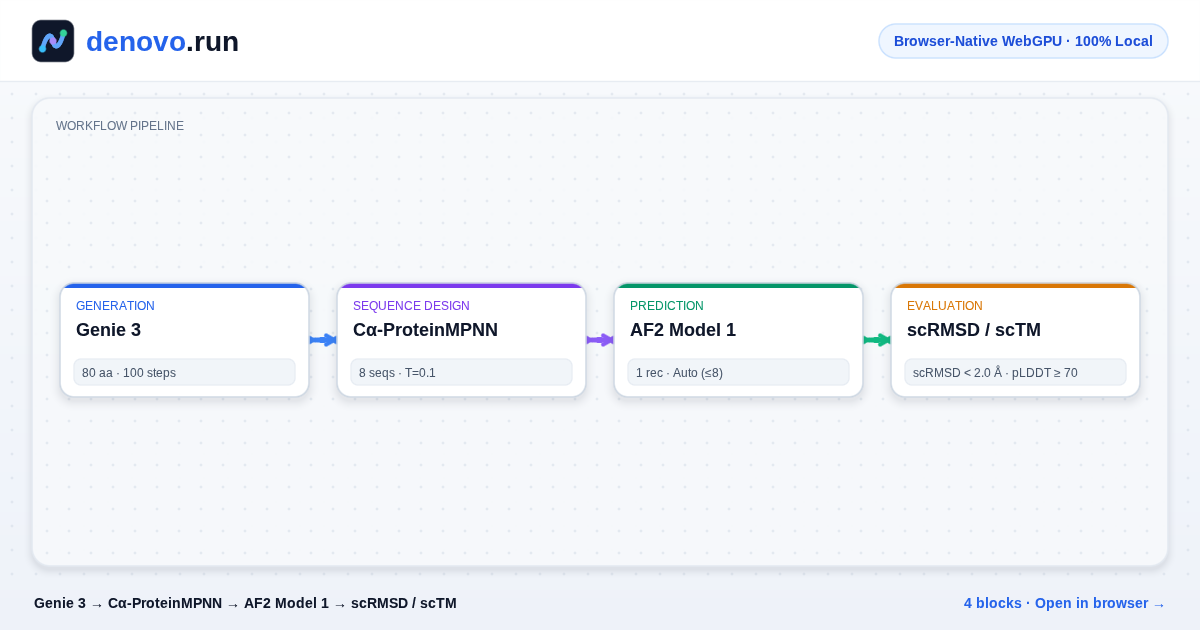
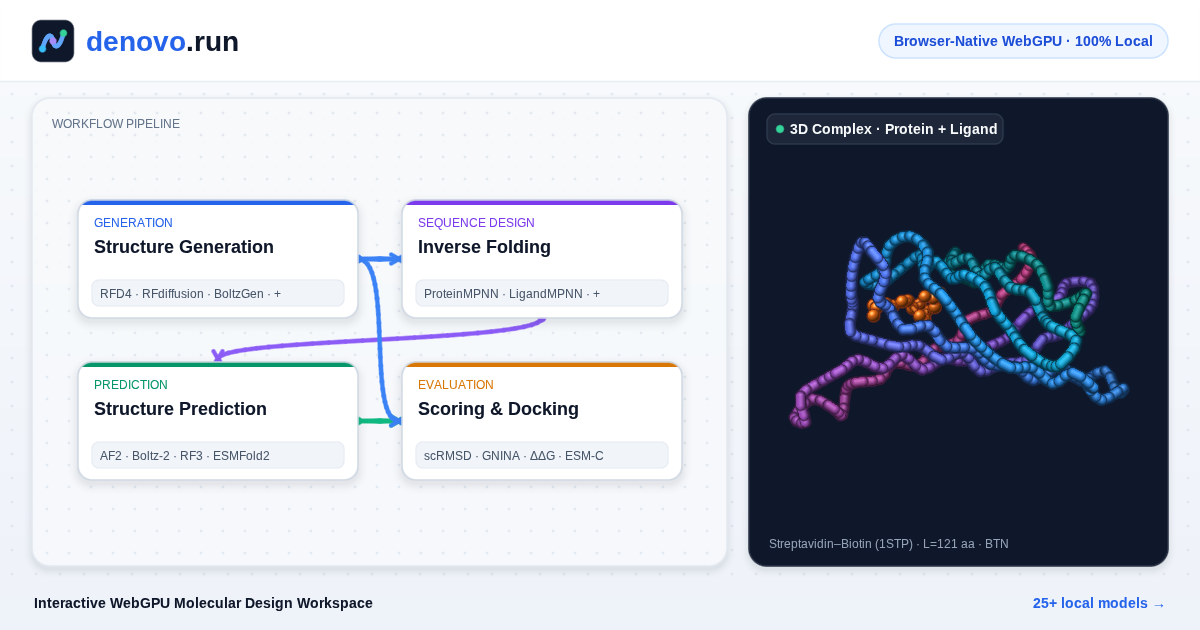
chore(ui,og): streamline Self-Hosted popover layout and update default OG preview card

diff --git a/web/src/lib/og/render-og-card.ts b/web/src/lib/og/render-og-card.ts
@@ -166,6 +166,7 @@ function drawWorkflowNodeCard(canvas: OgCanvas, card: LayoutCard): void {
 export async function renderWorkflowOgPng(
   workflow: DecodedOgWorkflow,
   structure: EdgeStructurePreview | null = null,
+  footerRightOverride?: string,
 ): Promise<Uint8Array> {
   const canvas = new OgCanvas(OG_WIDTH, OG_HEIGHT, '#f8fafc');
   canvas.fillLinearGradientRect(0, 0, OG_WIDTH, OG_HEIGHT, '#f8fafc', '#eef2f9');
@@ -262,8 +263,10 @@ export async function renderWorkflowOgPng(
 
   // Footer strip
   const cleanTitle = workflow.title.replace(/\s+—\s+denovo\.run$/, '');
-  canvas.drawEllipsisText(cleanTitle, 34, OG_HEIGHT - 22, OG_WIDTH - 240, 'med14', hexToRgba('#0f172a'));
-  const blockCountText = `${workflow.nodes.length} block${workflow.nodes.length === 1 ? '' : 's'} · Open in browser →`;
+  canvas.drawEllipsisText(cleanTitle, 34, OG_HEIGHT - 22, OG_WIDTH - 280, 'med14', hexToRgba('#0f172a'));
+  const blockCountText =
+    footerRightOverride ??
+    `${workflow.nodes.length} block${workflow.nodes.length === 1 ? '' : 's'} · Open in browser →`;
   const rightW = canvas.measureText(blockCountText, 'med14');
   canvas.drawText(blockCountText, OG_WIDTH - 34 - rightW, OG_HEIGHT - 22, 'med14', hexToRgba('#2563eb'));
 
@@ -333,51 +336,100 @@ function drawEdges(
   }
 }
 
+// Baked 10x-quantized Streptavidin–Biotin (RCSB 1STP Chain A + BTN) trace for zero-fetch default OG card.
+const HERO_1STP_CA: ReadonlyArray<readonly [number, number, number]> = [
+  [237,49,111],[258,73,91],[287,49,86],[263,20,82],[239,36,57],[265,52,36],[276,31,7],[264,14,-25],
+  [235,-10,-23],[217,-33,-47],[181,-46,-46],[166,-79,-58],[162,-64,-94],[198,-52,-98],[191,-16,-92],
+  [219,5,-77],[214,29,-48],[243,51,-39],[238,70,-6],[255,93,19],[238,97,53],[245,132,67],[250,138,104],
+  [218,159,104],[196,130,92],[198,139,55],[201,113,27],[215,124,-7],[228,102,-36],[220,86,-69],
+  [196,59,-80],[197,37,-112],[169,13,-120],[174,-20,-138],[138,-18,-150],[110,5,-161],[110,38,-180],
+  [144,47,-168],[181,50,-179],[213,61,-162],[214,78,-128],[187,99,-111],[190,123,-81],[175,111,-48],
+  [168,130,-16],[156,115,18],[157,116,56],[166,90,83],[163,87,120],[197,100,131],[193,89,168],
+  [179,54,166],[167,36,197],[194,16,215],[173,-16,219],[186,-30,186],[155,-19,165],[161,-9,129],
+  [165,28,118],[135,43,100],[143,61,67],[128,71,34],[138,86,0],[123,99,-32],[133,99,-69],[115,120,-95],
+  [121,100,-127],[136,128,-148],[173,132,-158],[191,145,-189],[183,114,-209],[146,111,-201],
+  [114,119,-182],[90,92,-172],[67,118,-154],[66,97,-123],[80,96,-87],[88,67,-64],[90,69,-26],
+  [107,41,-6],[98,38,31],[117,12,52],[142,6,79],[180,-1,80],[191,-32,99],[228,-34,108],[250,-64,115],
+  [268,-92,97],[246,-90,67],[232,-54,68],[200,-48,49],[175,-21,40],[139,-34,39],[115,-11,21],
+  [80,-7,6],[75,18,-22],[48,38,-39],[53,47,-76],[30,75,-88],[25,86,-124],[12,120,-134],[-22,111,-148],
+  [-54,128,-161],[-83,129,-135],[-101,102,-153],[-72,78,-147],[-61,88,-112],[-77,56,-98],
+  [-48,37,-115],[-19,61,-109],[0,43,-82],[19,10,-80],[31,-7,-47],[59,-32,-41],[89,-39,-18],
+  [126,-39,-24],[154,-54,-2],[189,-38,-5],[222,-54,6],[258,-43,1],[257,-76,-18],
+];
+const HERO_1STP_BTN: ReadonlyArray<readonly [number, number, number]> = [
+  [91,46,-145],[81,54,-142],[87,35,-151],[103,44,-137],[102,32,-127],[115,30,-120],[116,16,-114],
+  [109,11,-102],[109,21,-87],[103,6,-78],[111,-5,-83],[124,-6,-76],[135,-4,-85],[147,-4,-82],
+  [130,-2,-97],[115,-3,-97],
+];
+
 /** Generate the default static 1200x630 Open Graph PNG for bare https://denovo.run links. */
 export async function renderDefaultOgPng(): Promise<Uint8Array> {
   const demoWorkflow: DecodedOgWorkflow = {
-    title: 'Genie 3 → Cα-ProteinMPNN → AF2 Model 1 → scRMSD / scTM — denovo.run',
-    description: 'Browser-native WebGPU protein design workbench.',
+    title: 'Interactive WebGPU Molecular Design Workspace — denovo.run',
+    description:
+      'Have a molecular design idea you want to quickly prototype in your browser? Interactive browser-native WebGPU workspace for structure, design, folding & docking.',
     nodes: [
       {
         id: 'gen',
-        adapterId: 'genie3',
-        label: 'Genie 3',
+        adapterId: 'rfd4-proteina',
+        label: 'Structure Generation',
         category: 'generation',
-        paramChip: '80 aa · 100 steps',
+        paramChip: 'RFD4 · RFdiffusion · BoltzGen · +',
         params: {},
       },
       {
-        id: 'mpnn',
+        id: 'seq',
         adapterId: 'web-protein-mpnn',
-        label: 'Cα-ProteinMPNN',
+        label: 'Inverse Folding',
         category: 'sequence',
-        paramChip: '8 seqs · T=0.1',
+        paramChip: 'ProteinMPNN · LigandMPNN · +',
         params: {},
       },
       {
         id: 'fold',
         adapterId: 'localfold-af2',
-        label: 'AF2 Model 1',
+        label: 'Structure Prediction',
         category: 'prediction',
-        paramChip: '1 rec · Auto (≤8)',
+        paramChip: 'AF2 · Boltz-2 · RF3 · ESMFold2',
         params: {},
       },
       {
         id: 'score',
         adapterId: 'designability-scorer',
-        label: 'scRMSD / scTM',
+        label: 'Scoring & Docking',
         category: 'evaluation',
-        paramChip: 'scRMSD < 2.0 Å · pLDDT ≥ 70',
+        paramChip: 'scRMSD · GNINA · ΔΔG · ESM-C',
         params: {},
       },
     ],
     edges: [
-      { fromNode: 'gen', fromPort: 'structure', toNode: 'mpnn', toPort: 'structure' },
-      { fromNode: 'mpnn', fromPort: 'sequences', toNode: 'fold', toPort: 'sequences' },
+      { fromNode: 'gen', fromPort: 'structure', toNode: 'seq', toPort: 'structure' },
+      { fromNode: 'seq', fromPort: 'sequences', toNode: 'fold', toPort: 'sequences' },
       { fromNode: 'fold', fromPort: 'folds', toNode: 'score', toPort: 'folds' },
+      { fromNode: 'gen', fromPort: 'structure', toNode: 'score', toPort: 'structure' },
     ],
     structureTarget: null,
   };
-  return renderWorkflowOgPng(demoWorkflow, null);
+
+  const heroStructure: EdgeStructurePreview = {
+    title: '3D Complex · Protein + Ligand',
+    subtitle: 'Streptavidin–Biotin (1STP) · L=121 aa · BTN',
+    chains: [
+      {
+        id: 'A',
+        points: HERO_1STP_CA.map(([x, y, z]) => [x / 10, y / 10, z / 10] as const),
+      },
+    ],
+    ligands: [
+      {
+        name: 'BTN',
+        chain: 'A',
+        atoms: HERO_1STP_BTN.map(([x, y, z]) => [x / 10, y / 10, z / 10] as const),
+      },
+    ],
+    residueCount: HERO_1STP_CA.length,
+    isPlddt: false,
+  };
+
+  return renderWorkflowOgPng(demoWorkflow, heroStructure, '25+ local models →');
 }

diff --git a/web/src/routes/+page.svelte b/web/src/routes/+page.svelte
@@ -3675,41 +3675,36 @@
           role="dialog"
           aria-label="System & WebGPU status"
         >
-          <div class="pop-row">
-            <span class="pop-k">Browser GPU</span>
-            <span
-              class="pop-v"
-              class:ok-t={webgpuSupported && !webgpuIsFallback}
-              class:warn-t={webgpuSupported && webgpuIsFallback}
-              class:bad-t={webgpuSupported === false}
-            >
-              {webgpuDetail}
-            </span>
-          </div>
-          {#if webgpuAdapterInfo && (webgpuAdapterInfo.vendor || webgpuAdapterInfo.architecture)}
+          {#if !isRemoteCompute}
             <div class="pop-row">
-              <span class="pop-k">Adapter</span>
-              <span class="pop-v">
-                {[webgpuAdapterInfo.vendor, webgpuAdapterInfo.architecture].filter(Boolean).join(' · ')}
+              <span class="pop-k">Browser GPU</span>
+              <span
+                class="pop-v"
+                class:ok-t={webgpuSupported && !webgpuIsFallback}
+                class:warn-t={webgpuSupported && webgpuIsFallback}
+                class:bad-t={webgpuSupported === false}
+              >
+                {webgpuDetail}
               </span>
             </div>
-          {/if}
-          {#if webgpuIsFallback && !isRemoteCompute}
-            <div class="pop-warn-note">
-              Software WebGPU fallback detected. Switch to <b>Self-Hosted (remote machine)</b>,
-              or launch Linux Chrome with <code>--enable-features=Vulkan</code>.
-            </div>
-          {/if}
+            {#if webgpuAdapterInfo && (webgpuAdapterInfo.vendor || webgpuAdapterInfo.architecture)}
+              <div class="pop-row">
+                <span class="pop-k">Adapter</span>
+                <span class="pop-v">
+                  {[webgpuAdapterInfo.vendor, webgpuAdapterInfo.architecture].filter(Boolean).join(' · ')}
+                </span>
+              </div>
+            {/if}
+            {#if webgpuIsFallback}
+              <div class="pop-warn-note">
+                Software WebGPU fallback detected. Switch to <b>Self-Hosted (remote machine)</b>,
+                or launch Linux Chrome with <code>--enable-features=Vulkan</code>.
+              </div>
+            {/if}
 
-          <div class="pop-divider"></div>
+            <div class="pop-divider"></div>
+          {/if}
           <div class="pop-compute-sec">
-            <div class="pop-row">
-              <span class="pop-k">Active backend</span>
-              <span class="pop-mode-hint">
-                {isRemoteCompute ? 'Self-Hosted (remote machine)' : 'WebGPU (this computer)'}
-              </span>
-            </div>
-
             {#if !isRemoteCompute && sameOriginHostDetected?.ok}
               <div class="pop-row">
                 <span class="pop-k" title="Same-origin GPU server detected">
@@ -3730,6 +3725,16 @@
             {/if}
 
             {#if isRemoteCompute}
+              {#if !remoteHealth?.ok}
+                <div class="pop-help-note">
+                  Have a better GPU? Self-host on that machine, and still use the simple canvas.
+                  <a
+                    href="https://github.com/ramithuh/ProteinDesignSpace/blob/main/server/README.md"
+                    target="_blank"
+                    rel="noopener noreferrer"
+                  >Self-host guide ↗</a>
+                </div>
+              {/if}
               <label class="pop-field">
                 <span>Host Server URL (blank = same origin)</span>
                 <input
@@ -3794,16 +3799,6 @@
                     }}
                   />
                 </label>
-              {/if}
-              {#if !remoteHealth?.ok}
-                <div class="pop-help-note">
-                  Have a better GPU? Self-host on that machine, and still use the simple canvas.
-                  <a
-                    href="https://github.com/ramithuh/ProteinDesignSpace/blob/main/server/README.md"
-                    target="_blank"
-                    rel="noopener noreferrer"
-                  >Self-host guide ↗</a>
-                </div>
               {/if}
               <div class="pop-row">
                 <span
@@ -5535,11 +5530,6 @@
     display: flex;
     flex-direction: column;
     gap: 7px;
-  }
-  .pop-mode-hint {
-    font-size: 10px;
-    color: var(--text-muted);
-    font-family: 'JetBrains Mono', ui-monospace, monospace;
   }
   .pop-field {
     display: flex;
